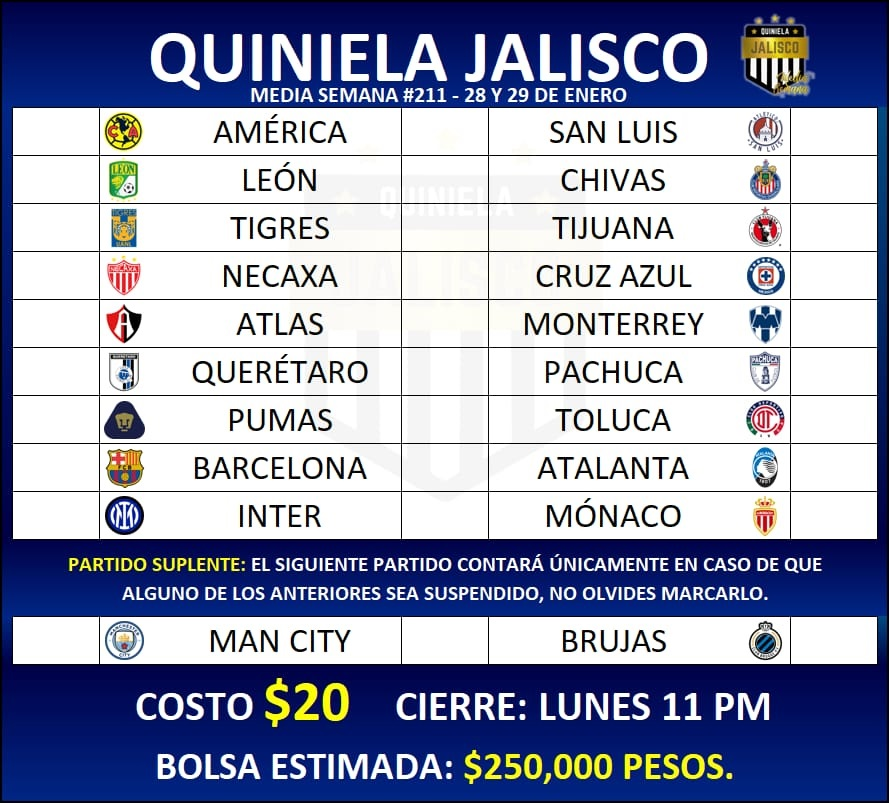
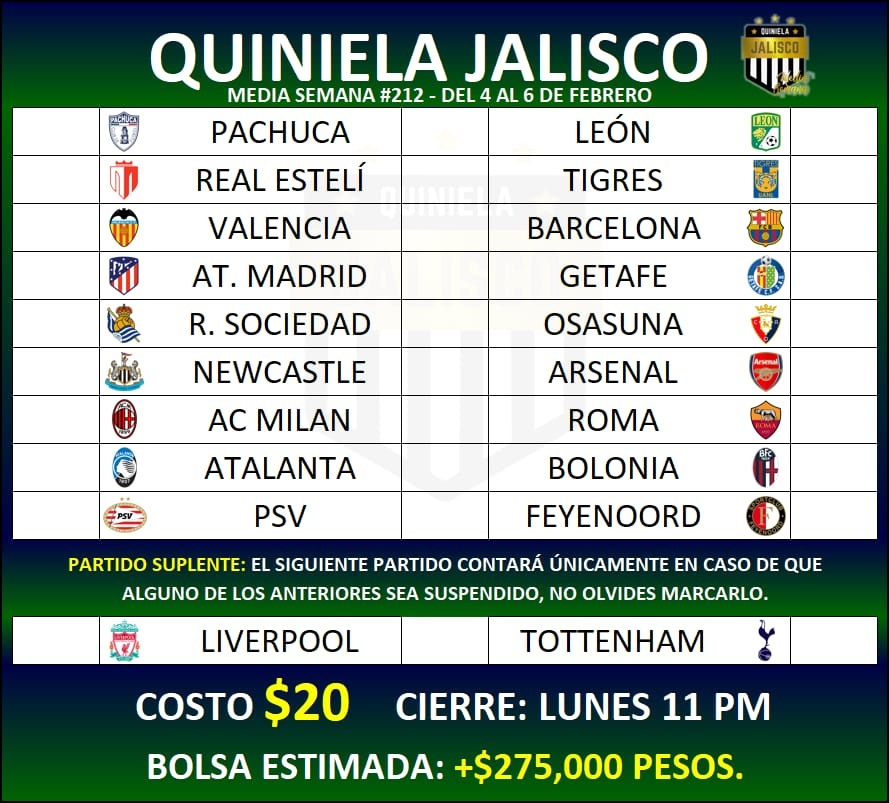
Media Semana #212

diff --git a/MediaSemana/stylesmSusp.css b/MediaSemana/stylesmSusp.css
@@ -94,8 +94,8 @@ body{
     margin-top: 9%;
     border: solid 1px black;
     border-radius: 0 0 14px 14px;
-    background: -webkit-linear-gradient(0.49turn, rgb(0 20 106) -7%, rgb(0 4 86) 80%);
-    background: linear-gradient(0.49turn, rgb(0 20 106) -7%, rgb(0 4 86) 80%);
+    background: -webkit-linear-gradient(0.49turn, rgb(0 58 30) -7%, rgb(0 4 86) 80%);
+    background: linear-gradient(0.49turn, rgb(0 58 30) -7%, rgb(0 4 86) 80%);
 }
 
 .text-lg{
@@ -294,7 +294,7 @@ h6{
 }
 
 #cantidad:before{
-    content:' $250,000 pesos';
+    content:' +$275,000 pesos';
     color: yellow;
     white-space:pre;
 }
